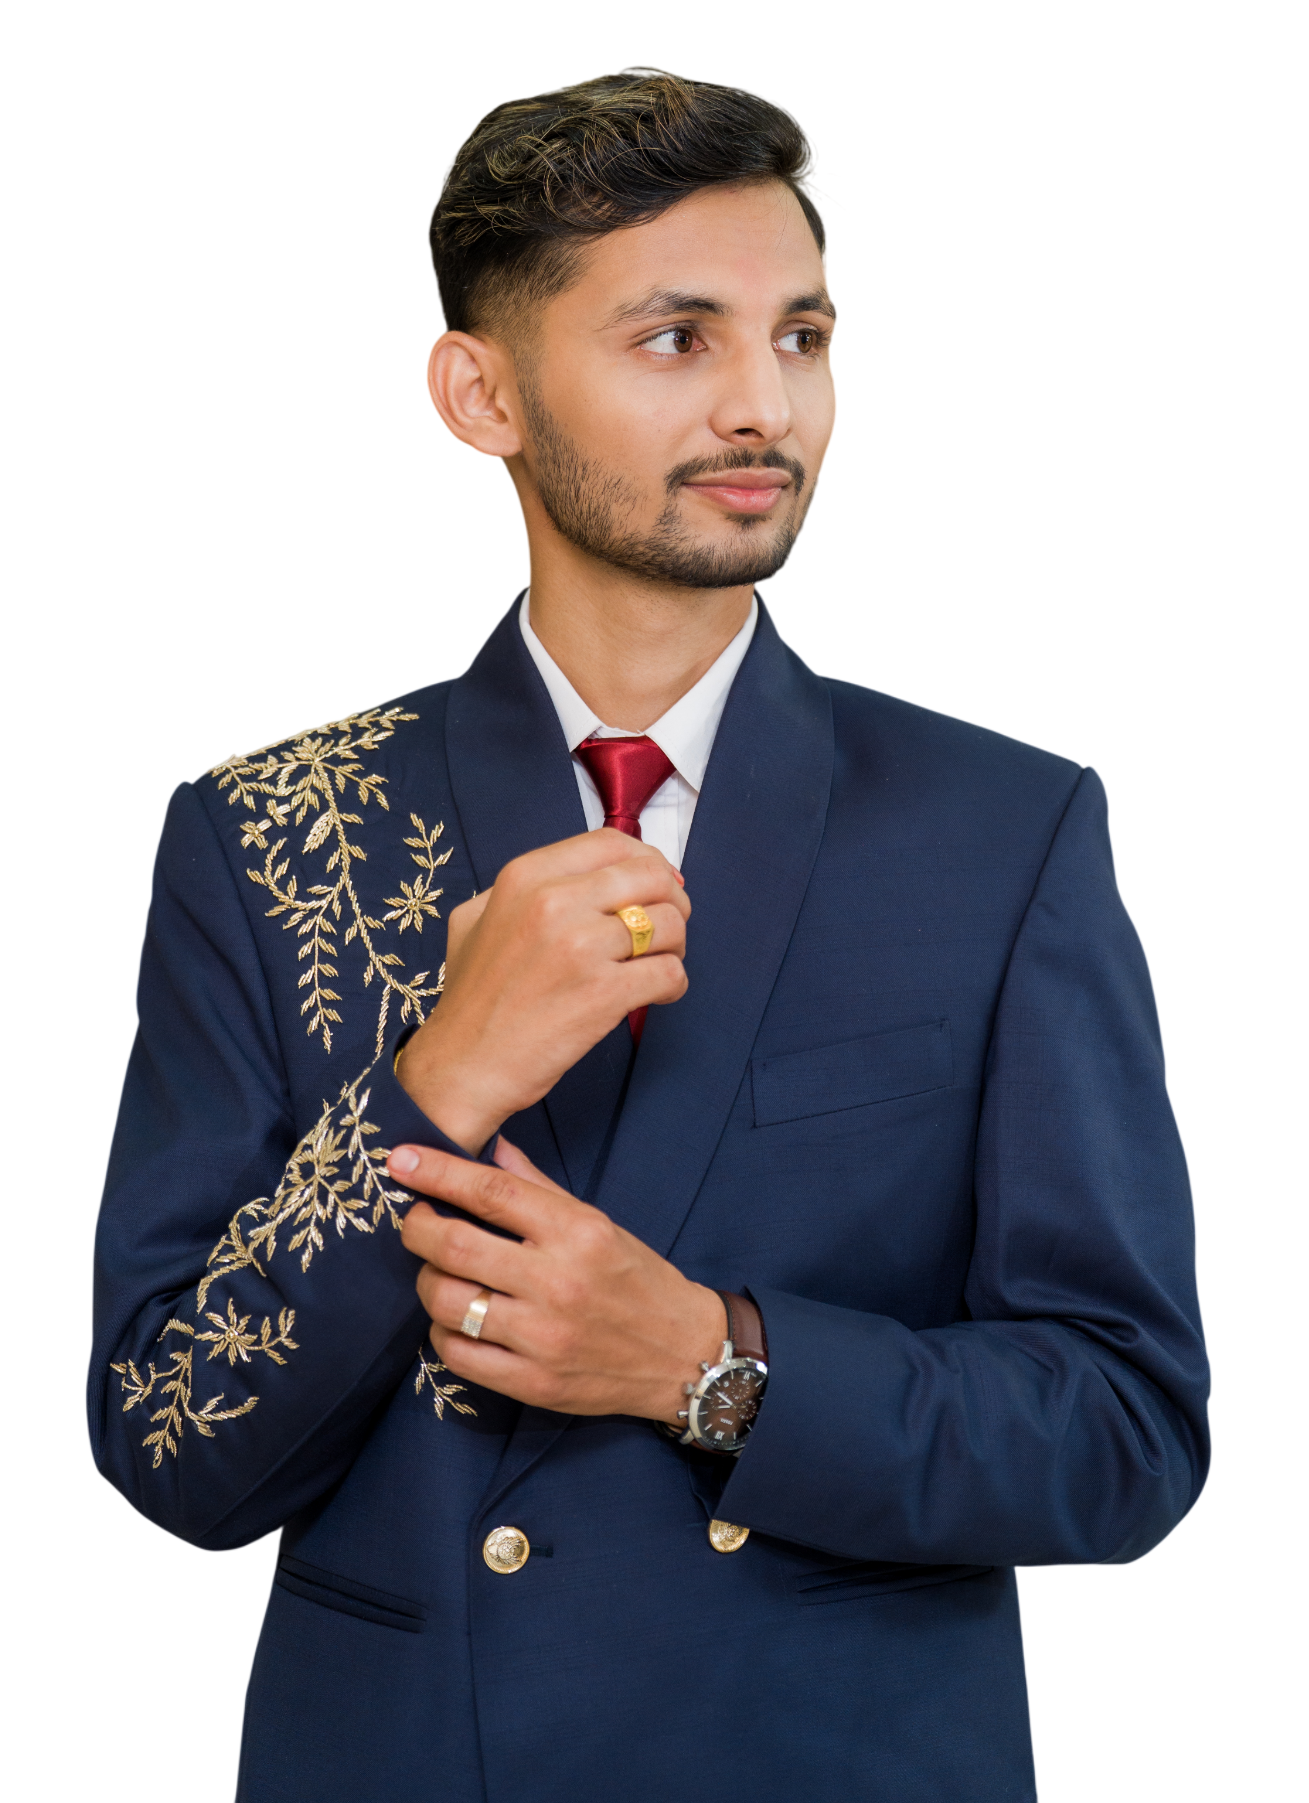
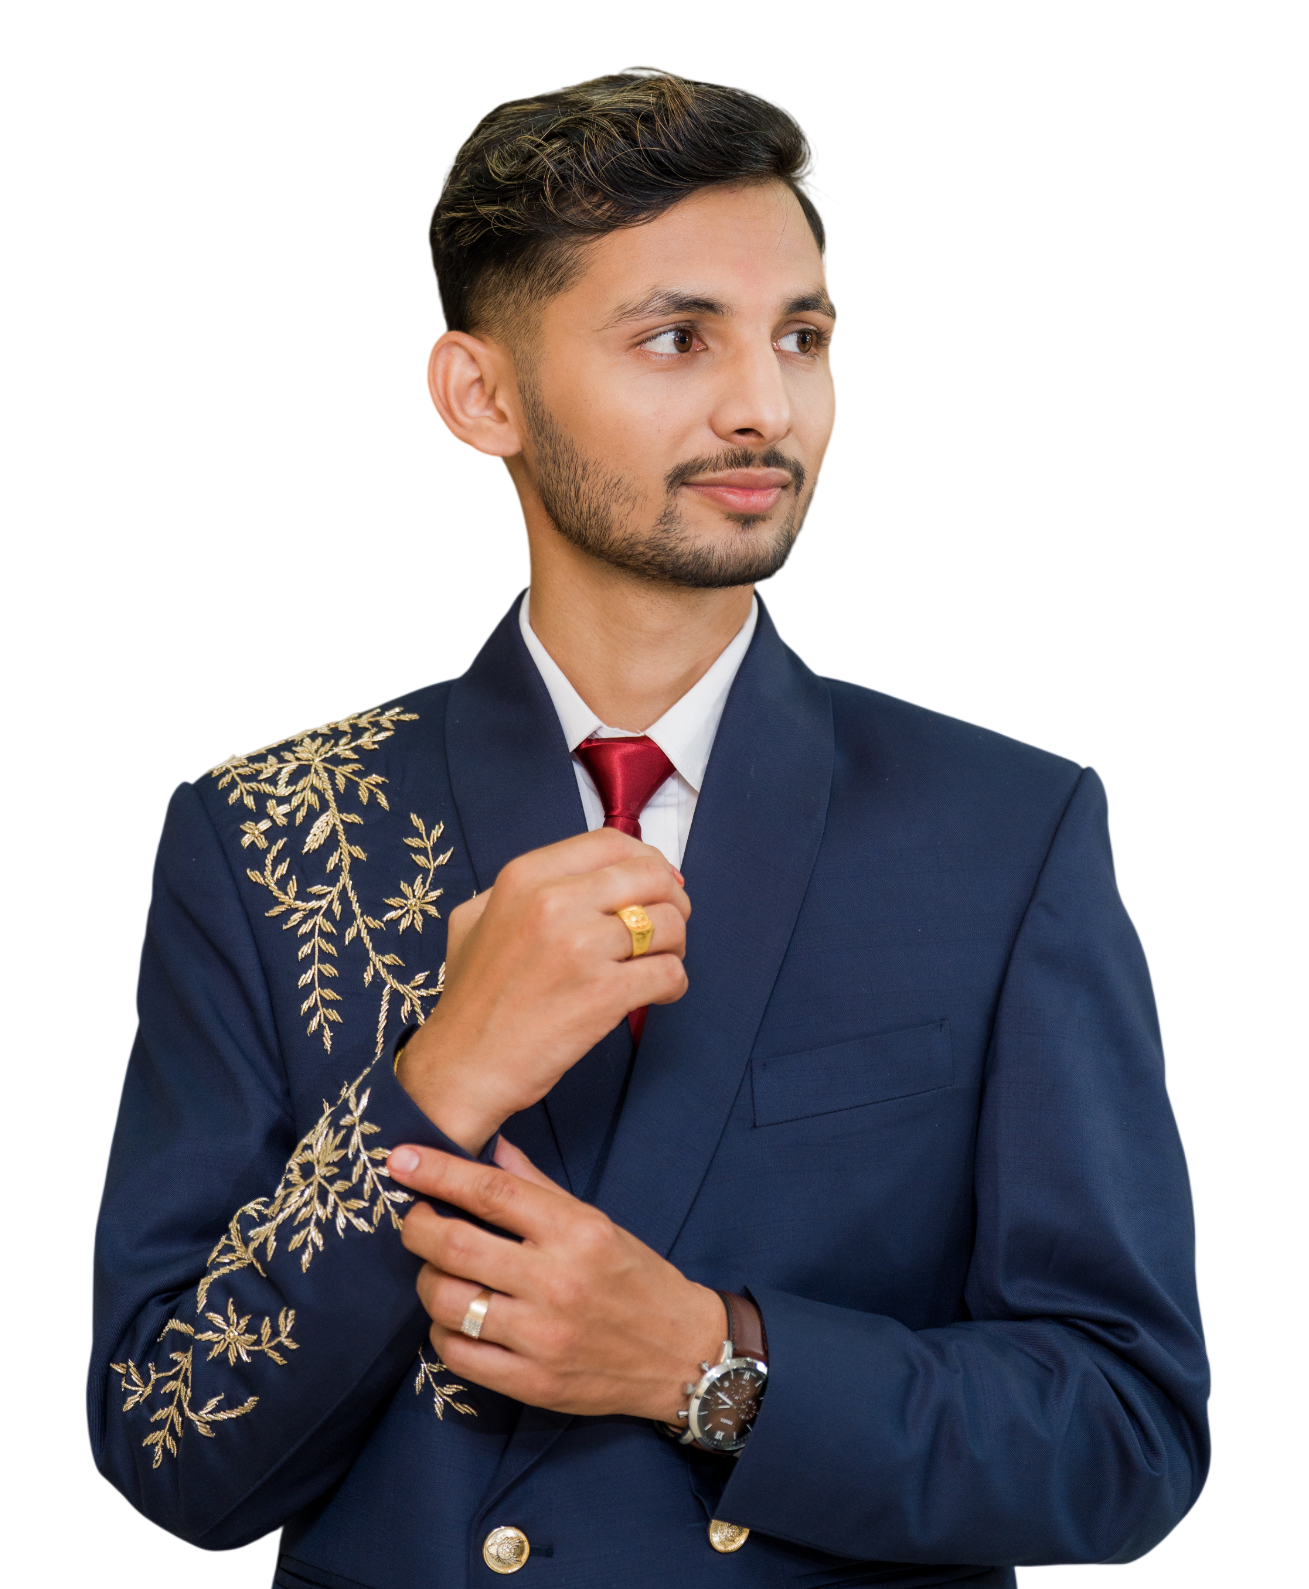
Adjested every thing

diff --git a/Style.css b/Style.css
@@ -372,10 +372,17 @@ sup {
   bottom: 0;
   transform: translateX(-50%);
   width: clamp(240px, 40vw, 500px);
-  aspect-ratio: 1;
+  aspect-ratio: 3 / 4;
   margin: 0;
   -webkit-mask-image: linear-gradient(#000 82%, transparent);
   mask-image: linear-gradient(#000 82%, transparent);
+}
+@media (min-width: 901px) {
+  .hero__frame {
+    min-height: calc(
+      clamp(560px, 50vw, 660px) + clamp(240px, 40vw, 500px) / 3
+    );
+  }
 }
 .hero__portrait img {
   width: 100%;
@@ -444,10 +451,19 @@ sup {
   border: 1px solid var(--line);
   box-shadow: none;
 }
+@media (min-width: 901px) {
+  .hero__intro,
+  .hero__socials {
+    bottom: calc(
+      clamp(20px, 3vw, 36px) + clamp(240px, 40vw, 500px) / 3
+    );
+  }
+}
 
 /* ---------- 6. Highlights ---------- */
 .highlight {
   background: #fff;
+  padding-bottom: clamp(12px, 2vw, 24px);
 }
 .highlight .section__panel {
   max-width: 1280px;
@@ -457,12 +473,6 @@ sup {
 }
 .highlight .section__title {
   margin-bottom: 10px;
-}
-.highlight__intro {
-  position: relative;
-  color: var(--ink-soft);
-  font-size: 0.9rem;
-  text-align: center;
 }
 .highlight__toolbar {
   position: relative;
@@ -477,42 +487,38 @@ sup {
 .filters {
   display: flex;
   flex-wrap: wrap;
-  gap: 4px;
-  padding: 4px;
-  border: 1px solid rgba(17, 17, 17, 0.08);
-  border-radius: var(--radius-pill);
-  background: rgba(255, 255, 255, 0.82);
-  box-shadow: 0 3px 12px rgba(17, 17, 17, 0.035);
+  gap: 24px;
+  padding: 0;
   font-size: 0.78rem;
   font-weight: 500;
 }
 .filters__btn {
   color: var(--ink-soft);
-  padding: 0.65em 1em;
-  border-radius: var(--radius-pill);
+  padding: 0.65em 0;
   position: relative;
   transition:
     color 0.2s,
-    background 0.2s,
-    box-shadow 0.2s;
+    background 0.2s;
 }
 .filters__btn:hover,
 .filters__btn.is-active {
-  color: #14532d;
+  color: #111;
 }
 .filters__btn.is-active::after {
-  display: none;
-}
-.filters__btn.is-active {
-  background: #e7f6e9;
-  box-shadow: inset 0 0 0 1px rgba(34, 197, 94, 0.18);
+  content: "";
+  position: absolute;
+  right: 0;
+  bottom: 0;
+  left: 0;
+  height: 2px;
+  background: #111;
 }
 
 .highlight__grid {
   position: relative;
   display: grid;
   grid-template-columns: repeat(2, minmax(0, 1fr));
-  max-width: 1040px;
+  max-width: 880px;
   margin-inline: auto;
   gap: clamp(16px, 2.2vw, 24px);
 }
@@ -523,21 +529,16 @@ sup {
 }
 .highlight__grid .card {
   height: 100%;
-  padding: 12px;
-  border: 1px solid rgba(17, 17, 17, 0.07);
-  border-radius: 16px;
-  background: #fff;
-  box-shadow: 0 5px 20px rgba(17, 17, 17, 0.045);
+  padding: 0;
+  border: 0;
+  background: transparent;
+  box-shadow: none;
   transition:
     opacity 0.35s ease,
-    transform 0.35s ease,
-    border-color 0.25s ease,
-    box-shadow 0.25s ease;
+    transform 0.35s ease;
 }
 .highlight__grid .card:hover {
-  transform: translateY(-4px);
-  border-color: rgba(34, 197, 94, 0.32);
-  box-shadow: 0 14px 30px rgba(17, 17, 17, 0.085);
+  transform: none;
 }
 .card[hidden] {
   display: none;
@@ -553,7 +554,7 @@ sup {
   display: block;
   overflow: hidden;
   aspect-ratio: 16 / 9;
-  border-radius: 10px;
+  border-radius: 14px;
   background: #eee;
 }
 .card__media--dark {
@@ -575,9 +576,19 @@ sup {
   background:
     radial-gradient(circle at 50% 42%, #343434 0, #111 56%, #080808 100%);
 }
+.card__media--tiktok:not(.is-playing) iframe {
+  visibility: hidden;
+}
+.card__media--tiktok.is-playing .card__tiktok-thumbnail {
+  visibility: hidden;
+}
+.card__media--tiktok.is-playing .card__tiktok-play {
+  display: none;
+}
 .highlight__grid .card__media {
   width: 100%;
   aspect-ratio: 3 / 2;
+  border-radius: 0;
 }
 @media (min-width: 901px) {
   .kick-clip__image {
@@ -589,6 +600,9 @@ sup {
   height: 100%;
   object-fit: cover;
   transition: transform 0.6s cubic-bezier(0.2, 0.7, 0.2, 1);
+}
+.card__tiktok-thumbnail {
+  filter: none;
 }
 .card__link:hover .card__media img {
   transform: scale(1.05);
@@ -611,24 +625,22 @@ sup {
   z-index: 2;
   left: 50%;
   top: 50%;
-  width: 52px;
-  height: 52px;
+  width: 60px;
+  height: 60px;
   border-radius: 50%;
   display: grid;
   place-items: center;
   padding: 0;
   border: 0;
-  background: var(--green);
-  color: #07190d;
-  font-size: 1.2rem;
+  background: #fff;
+  color: #111;
+  font-size: 1.8rem;
   transform: translate(-50%, -50%) scale(0.9);
   opacity: 0.94;
   transition:
     transform 0.3s ease,
     opacity 0.3s ease;
-  box-shadow:
-    0 6px 20px rgba(0, 0, 0, 0.25),
-    0 0 0 5px rgba(255, 255, 255, 0.82);
+  filter: drop-shadow(0 2px 5px rgba(0, 0, 0, 0.65));
   cursor: pointer;
 }
 .card__link:hover .card__cursor {
@@ -636,7 +648,7 @@ sup {
   opacity: 1;
 }
 .card__cursor:focus-visible {
-  outline: 3px solid #15803d;
+  outline: 2px solid #fff;
   outline-offset: 4px;
 }
 .card__tiktok-play {
@@ -645,18 +657,16 @@ sup {
   left: 50%;
   top: 50%;
   display: grid;
-  width: 52px;
-  height: 52px;
+  width: 60px;
+  height: 60px;
   place-items: center;
   border-radius: 50%;
-  background: var(--green);
-  color: #07190d;
-  font-size: 1.2rem;
+  background: #fff;
+  color: #111;
+  font-size: 1.8rem;
   transform: translate(-50%, -50%) scale(0.9);
-  opacity: 0.94;
-  box-shadow:
-    0 6px 20px rgba(0, 0, 0, 0.25),
-    0 0 0 5px rgba(255, 255, 255, 0.82);
+  opacity: 1;
+  filter: drop-shadow(0 2px 5px rgba(0, 0, 0, 0.65));
   transition:
     transform 0.3s ease,
     opacity 0.3s ease;
@@ -667,7 +677,7 @@ sup {
   opacity: 1;
 }
 .card__tiktok-play:focus-visible {
-  outline: 3px solid #15803d;
+  outline: 2px solid #fff;
   outline-offset: 4px;
 }
 .card__media iframe {
@@ -712,7 +722,7 @@ sup {
   padding: 0.55em 0;
   font-size: 0.78rem;
   font-weight: 600;
-  color: #245b35;
+  color: #111;
   text-decoration: none;
   transition:
     color 0.2s,
@@ -720,7 +730,7 @@ sup {
 }
 .card__source:hover {
   gap: 4px;
-  color: #15803d;
+  color: #111;
   text-decoration: underline;
   text-underline-offset: 3px;
 }
@@ -741,16 +751,17 @@ sup {
   padding: 0.4em 0.85em;
   font-size: 0.68rem;
   font-weight: 500;
-  border: 1px solid rgba(34, 197, 94, 0.2);
+  border: 1px solid rgba(17, 17, 17, 0.12);
   border-radius: var(--radius-pill);
-  background: #f0f8f1;
-  color: #245b35;
+  background: #f6f6f6;
+  color: #111;
 }
 
 /* ---------- 7. Service accordion ---------- */
 .service {
   position: relative;
   overflow: hidden;
+  padding-top: clamp(12px, 2vw, 24px);
   margin-bottom: clamp(32px, 4vw, 48px);
 }
 

diff --git a/index.html b/index.html
@@ -159,10 +159,6 @@
           <h2 class="section__title" id="highlights-title">
             <span class="slash">/</span>FEATURED CONTENT
           </h2>
-          <p class="highlight__intro">
-            Gameplay, clips, and moments from 4Flag Gamer.
-          </p>
-
           <div class="highlight__toolbar">
             <div
               class="filters"
@@ -324,6 +320,13 @@
             <li class="card" data-category="shorts montage">
               <div class="card__link">
                 <div class="card__media card__media--vertical card__media--tiktok">
+                  <img
+                    class="card__tiktok-thumbnail"
+                    src="Tik%20Tok%20thumbnail.jpg"
+                    alt="Thumbnail for 4Flag Gamer's TikTok video"
+                    loading="lazy"
+                    decoding="async"
+                  />
                   <iframe
                     src="https://www.tiktok.com/player/v1/7696826453308214549?music_info=1&amp;description=1"
                     title="4Flag Gamer TikTok video"
@@ -402,11 +405,11 @@
                   apps, and websites.
                 </p>
                 <img
-                  class="accordion__preview"
[1 lines of base64/hex data omitted]
-                  alt=""
-                  loading="lazy"
-                />
+                class="accordion__preview"
[1 lines of base64/hex data omitted]
+                alt=""
+                loading="lazy"
+              />
               </div>
             </li>
 

diff --git a/Script.js b/Script.js
@@ -194,6 +194,8 @@
             const frame = media?.querySelector("iframe");
             if (!frame) return;
 
+            media.classList.add("is-playing");
+            button.hidden = true;
             button.dataset.playRequested = "true";
             const playerUrl = new URL(frame.src);
             playerUrl.searchParams.set("autoplay", "1");
